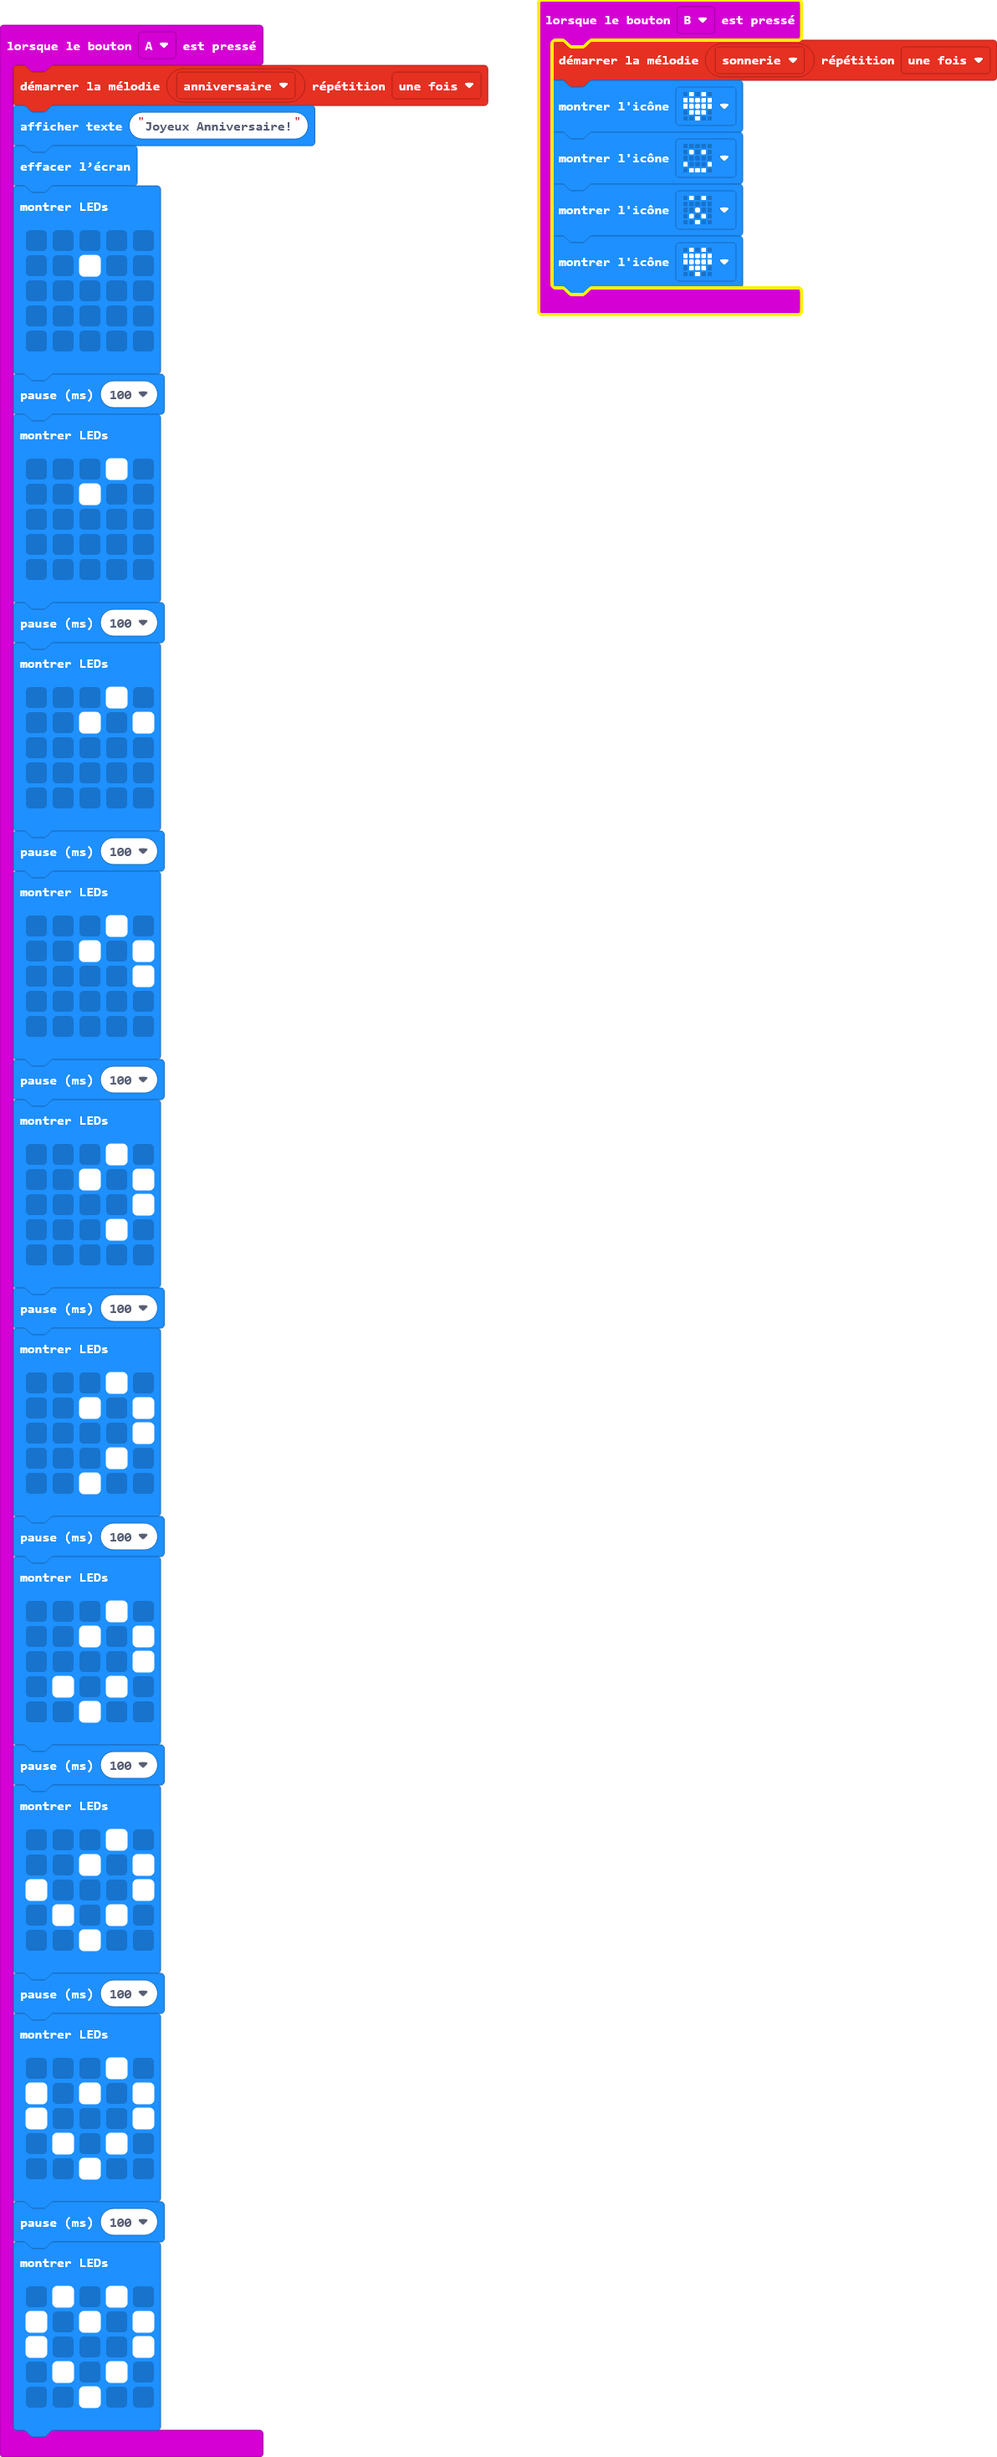
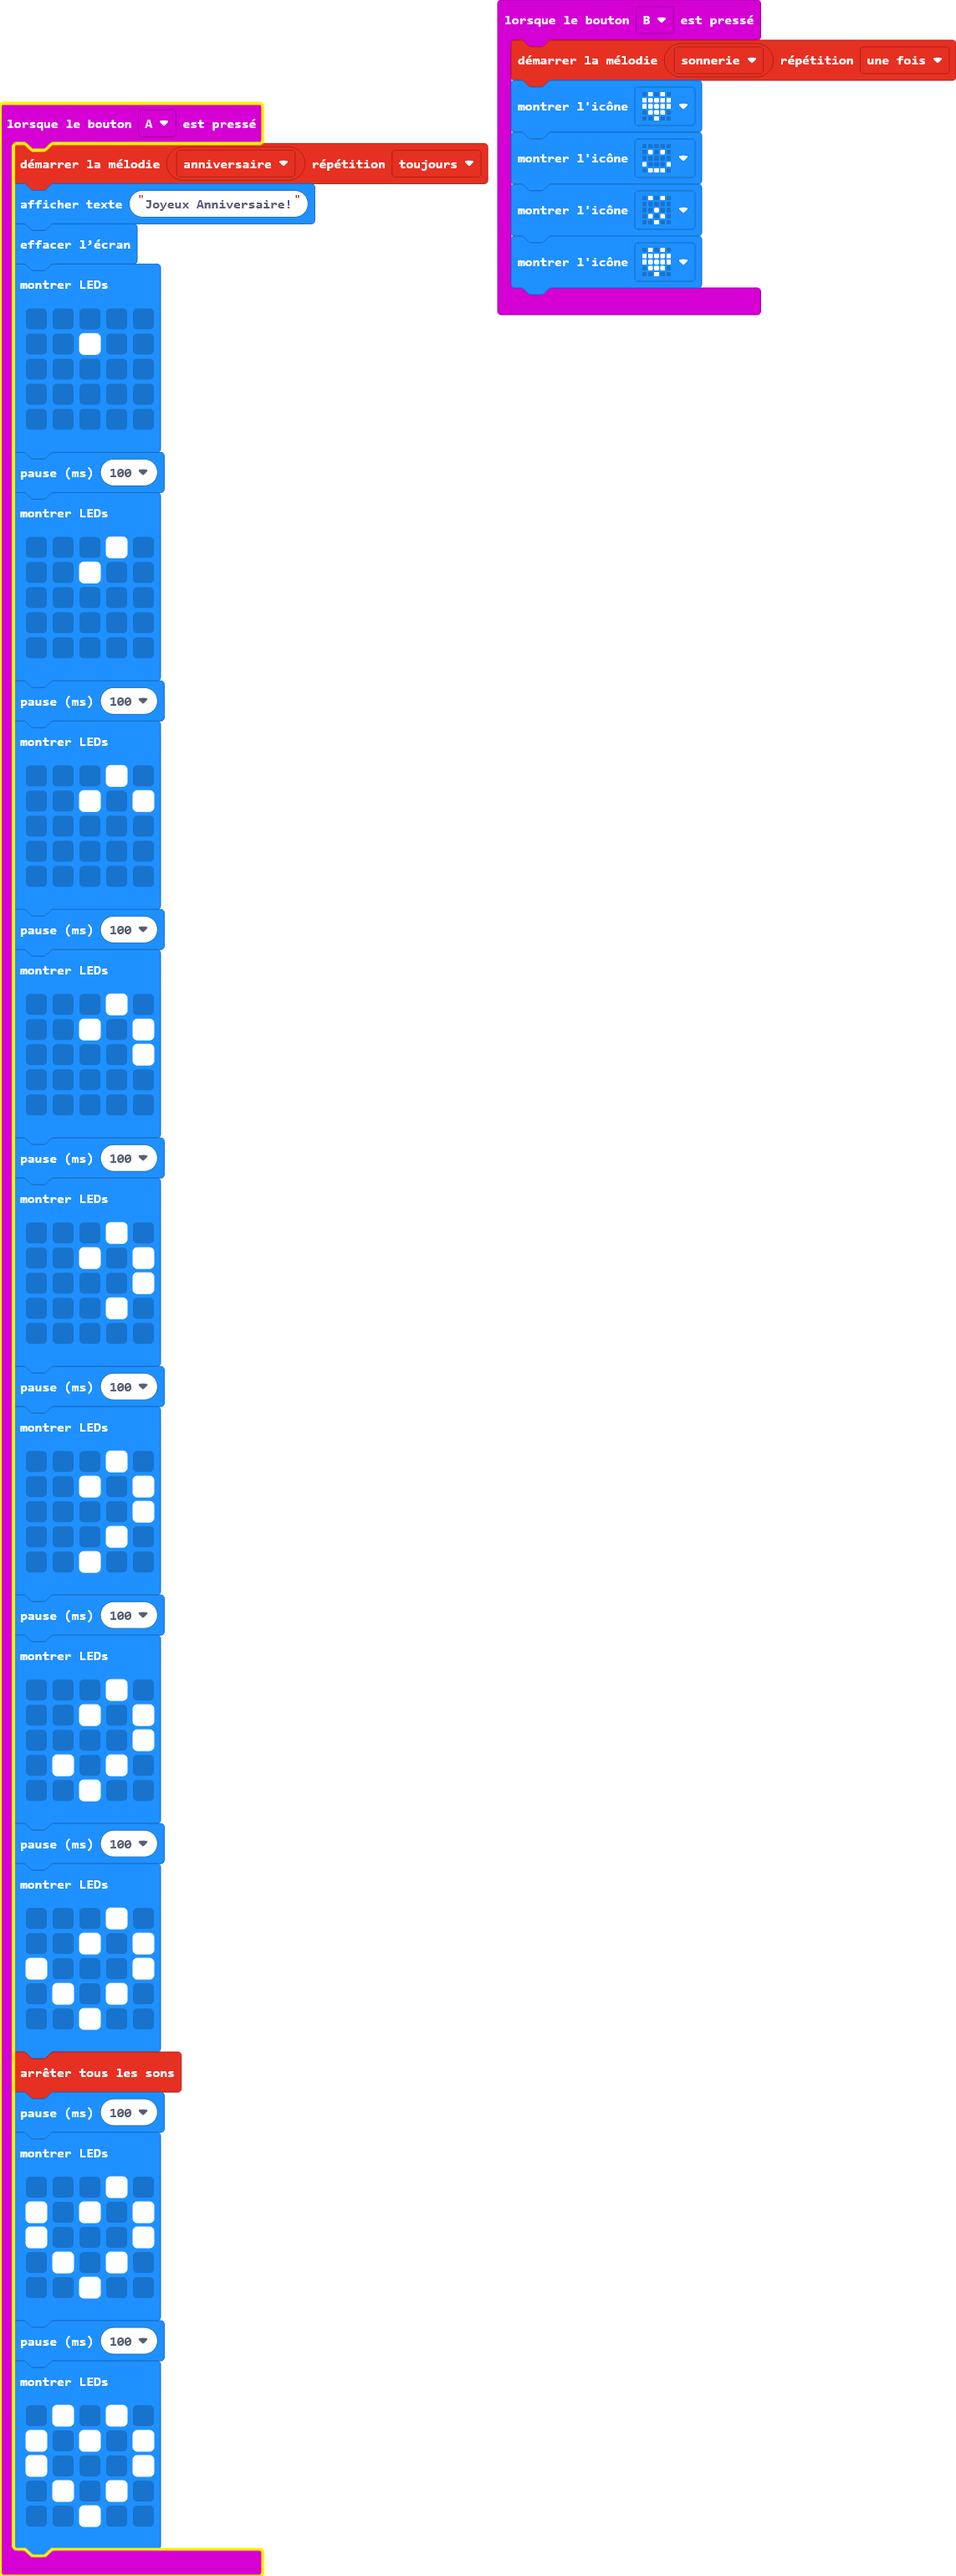
Ajouts

Changed region(s): [[0.0, 0.0, 1.0, 1.0], [0.245, 0.9918, 0.2756, 1.0]]

diff --git a/main.ts b/main.ts
@@ -1,5 +1,5 @@
 input.onButtonPressed(Button.A, function () {
-    music.startMelody(music.builtInMelody(Melodies.Birthday), MelodyOptions.Once)
+    music.startMelody(music.builtInMelody(Melodies.Birthday), MelodyOptions.Forever)
     basic.showString("Joyeux Anniversaire!")
     basic.clearScreen()
     basic.showLeds(`
@@ -65,6 +65,7 @@ input.onButtonPressed(Button.A, function () {
         . # . # .
         . . # . .
         `)
+    music.stopAllSounds()
     basic.pause(100)
     basic.showLeds(`
         . . . # .
